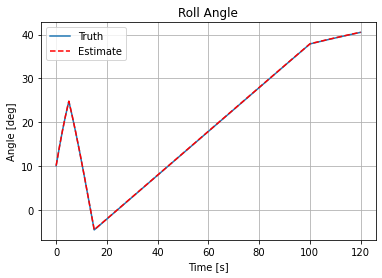
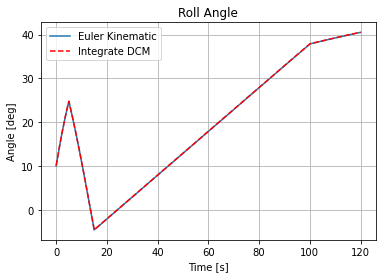
Changed graph legends

Changed region(s): [[0.2016, 0.0863, 0.4319, 0.2302]]

diff --git a/Sims/Python/IMU_Sim_9_3_2022/attitudeSim.py b/Sims/Python/IMU_Sim_9_3_2022/attitudeSim.py
@@ -2,7 +2,7 @@ import numpy as np
 import matplotlib.pyplot as plt
 import random
 from mathUtilities import deg2rad, EulerKinematic, rad2deg, Inertial2Body, Body2Inertial, \
-IMU_AttitudeUpdate
+IMU_AttitudeUpdate, tiltAngles
 
 # Initial Orientation
 roll  = deg2rad(10) # [deg]
@@ -33,6 +33,8 @@ time     = np.zeros(arrayLength)
 
 g_vector = np.zeros((arrayLength,3))
 dcm_int = np.zeros((arrayLength,3))
+
+accelAngles = np.zeros((arrayLength,2))
 
 angles = np.array([[roll],
                    [pitch],
@@ -135,7 +137,9 @@ for idx in range (0,arrayLength):
     
     # Simulating accelerometer (no external acceleration, noise, etc...)
     # Storing gravity components in the body frame
-    g_vector[idx, :] = np.transpose((Inertial2Body(roll, pitch, yaw)@gravity))
+    g_vector[idx, :] = np.transpose((Inertial2Body(rollEst, pitchEst, yawEst)@gravity))
+    
+    accelAngles[idx, :] = np.transpose(tiltAngles(g_vector[idx, :]))
     
     # Simulating gyroscope with noise and doing attitude update
     the_dcm    = Body2Inertial(rollEst, pitchEst, yawEst)
@@ -154,8 +158,8 @@ for idx in range (0,arrayLength):
 
 # Plotting values
 plt.figure(1)
-plt.plot(time, phi, label = 'Truth')
-plt.plot(time, dcm_int[:,0], '--r', label = 'Estimate')
+plt.plot(time, phi, label = 'Euler Kinematic')
+plt.plot(time, dcm_int[:,0], '--r', label = 'Integrate DCM')
 plt.ylabel('Angle [deg]')
 plt.xlabel('Time [s]')
 plt.title('Roll Angle')
@@ -164,8 +168,8 @@ plt.grid()
 plt.show()
 
 plt.figure(2)
-plt.plot(time, theta, label = 'Truth')
-plt.plot(time, dcm_int[:,1], '--r', label = 'Estimate')
+plt.plot(time, theta, label = 'Euler Kinematic')
+plt.plot(time, dcm_int[:,1], '--r', label = 'Integrate DCM')
 plt.ylabel('Angle [deg]')
 plt.xlabel('Time [s]')
 plt.title('Pitch Angle')
@@ -174,8 +178,8 @@ plt.grid()
 plt.show()
 
 plt.figure(3)
-plt.plot(time, psi, label = 'Truth')
-plt.plot(time, dcm_int[:,2], '--r', label = 'Estimate')
+plt.plot(time, psi, label = 'Euler Kinematic')
+plt.plot(time, dcm_int[:,2], '--r', label = 'Integrate DCM')
 plt.ylabel('Angle [deg]')
 plt.xlabel('Time [s]')
 plt.title('Yaw Angle')
@@ -238,3 +242,20 @@ plt.xlabel('Time [s]')
 plt.title('Z-Axis Acceleration due to gravity')
 plt.grid()
 plt.show()
+
+# # Plotting Euler angles from accelerometer
+# plt.figure(10)
+# plt.plot(time, accelAngles[:,0])
+# plt.ylabel('Angle [deg]')
+# plt.xlabel('Time [s]')
+# plt.title('Roll Angle from Accelerometer')
+# plt.grid()
+# plt.show()
+
+# plt.figure(11)
+# plt.plot(time, accelAngles[:,1])
+# plt.ylabel('Angle [deg]')
+# plt.xlabel('Time [s]')
+# plt.title('Pitch Angle from Accelerometer')
+# plt.grid()
+# plt.show()

diff --git a/Sims/Python/IMU_Sim_9_3_2022/mathUtilities.py b/Sims/Python/IMU_Sim_9_3_2022/mathUtilities.py
@@ -93,3 +93,23 @@ def IMU_AttitudeUpdate(dcmOLD, Gyro, dt):
     return rad2deg(np.array([[phi],
                              [theta],
                              [psi]]))
+
+def tiltAngles(accel):
+    
+    # Creating a unit vector by dividing by the magnitude
+    unit_accel = accel * (1/np.linalg.norm(accel))
+    
+    # Components of the unit vector
+    ax = unit_accel[0].item()
+    ay = unit_accel[1].item()
+    az = unit_accel[2].item()
+    
+    # sqrt(ay^2 + az^2) = cos(pitch)
+    temp = np.linalg.norm([ay, az])
+    
+    # Orientation using acceleration measurements
+    roll  = math.atan2(ay, az)
+    pitch = math.atan2(-ax, temp)
+    
+    return rad2deg(np.array([[roll],
+                             [pitch]]))
